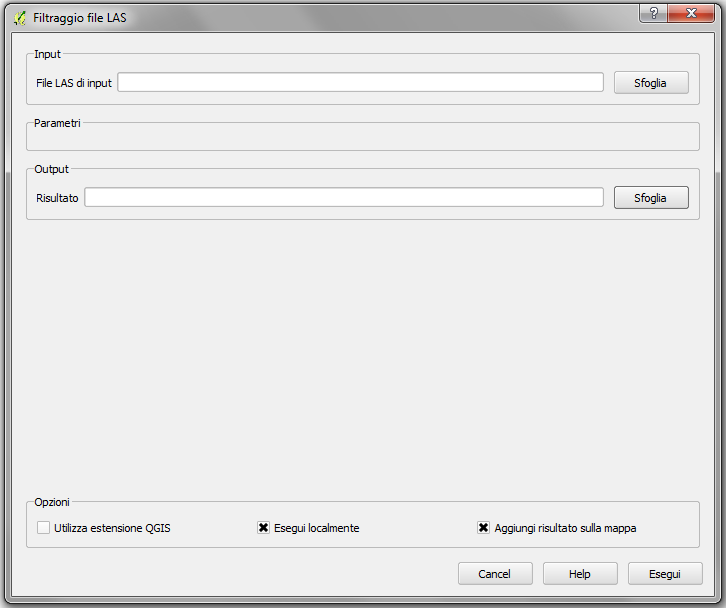
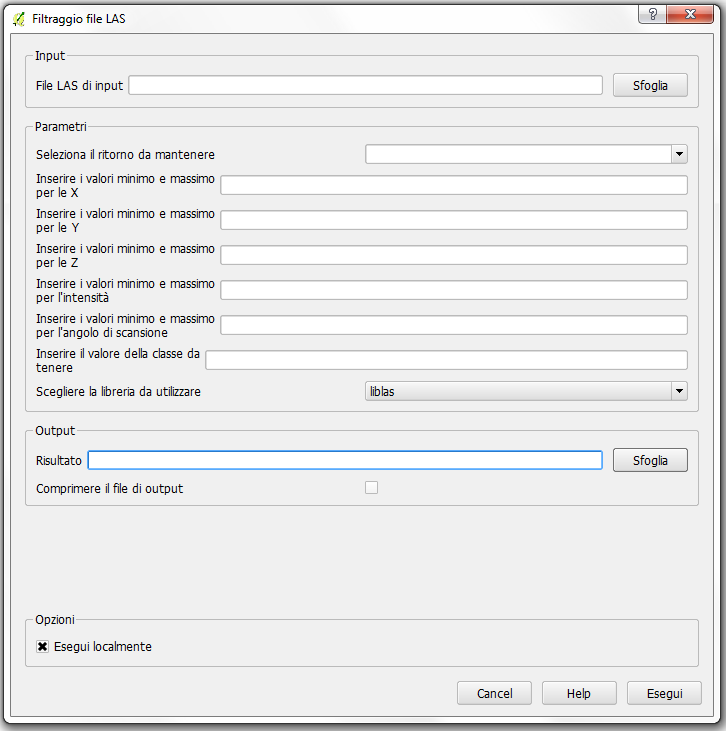
Update help preprocessing LAS

Changed region(s): [[0.0, 0.0, 1.0, 1.0], [0.6364, 0.8438, 0.8788, 0.875], [0.3333, 0.8438, 0.5152, 0.875]]

diff --git a/docs/source/tools/filtraggio_file_las.rst b/docs/source/tools/filtraggio_file_las.rst
@@ -1,7 +1,7 @@
 Filtraggio file LAS
 ================================
 
-Il modulo esegue il filtraggio dei file .las in modo da selezionare solo i punti LIDAR che rispettano determinate regole.
+Il modulo esegue il filtraggio dei file .las (o .laz) in modo da selezionare solo i punti LIDAR che rispettano determinate regole.
 
 .. only:: latex
 
@@ -11,34 +11,45 @@ Il modulo esegue il filtraggio dei file .las in modo da selezionare solo i punti
 Input
 ------------
 
-**File LAS di input**: selezionare il file .las da filtrare.
+**File LAS di input**: selezionare il file .las (o .laz) da filtrare.
 
 Parametri
 ------------
 
-Tutti i parametri sono opzionali. Se non viene impostato nessun parametro il modulo darà in output lo stesso file .las di input.
+Tutti i parametri sono opzionali. Se non viene impostato nessun parametro il modulo darà in output lo stesso file .las (o .laz) di input.
 
-**Z max**: valore di Z al di sopra del quali i punti LIDAR vengono rimossi.
+**Selezionare il ritorno da mantenere**: se non si seleziona nulla vengono matenuti tutti i ritorni.
 
-**Z min**: valore di Z al di sotto del quali i punti LIDAR vengono rimossi.
+	* *primo*: primi ritorni;
 
-**X max**: valore di X al di sopra del quali i punti LIDAR vengono rimossi.
+	* *ultimo*: ultimi ritorni;
 
-**X min**: valore di X al di sotto del quali i punti LIDAR vengono rimossi.
+	* *altri*: ritorni intermedi;
 
-**Y max**: valore di Y al di sopra del quali i punti LIDAR vengono rimossi.
+**Inserire i valori minimo e massimo per le X**: valori minimo e massimo della X da mantenere. I valori vanno seprati da uno spazio.
 
-**Y min**: valore di Y al di sotto del quali i punti LIDAR vengono rimossi.
+**Inserire i valori minimo e massimo per le Y**: valori minimo e massimo della Y da mantenere. I valori vanno seprati da uno spazio.
 
-**Max scan angle**: valore massimo in valore assoluto dell'angolo di scansione al di sopra del quali i punti LIDAR vengono rimossi.
+**Inserire i valori minimo e massimo per le Z**: valori minimo e massimo della Z da mantenere. I valori vanno seprati da uno spazio.
 
-**Ritorni**: valore dei ritorni da mantenere nel file .las di output.
+**Inserire i valori minimo e massimo per l'intensita'**: valori minimo e massimo dell'intensita' da mantenere. I valori vanno seprati da uno spazio.
 
+**Inserire i valori minimo e massimo per l'angolo di scansione**: valori minimo e massimo per l'angolo di scansione da mantenere. I valori vanno seprati da uno spazio.
+
+**Inserire il valore della classe da tenere**: valore della classe da mantenere.
+
+**Scegliere la libreria da utilizzare**:
+
+	* *liblas*
+
+	* *pdal*
 
 Output
 ------------
 
 **Risultato**: inserire il percorso e il nome del file di output.
+
+**Comprimere il file di output**: se selzionato l'output sara' in formato .laz.
 
 .. only:: latex
 
